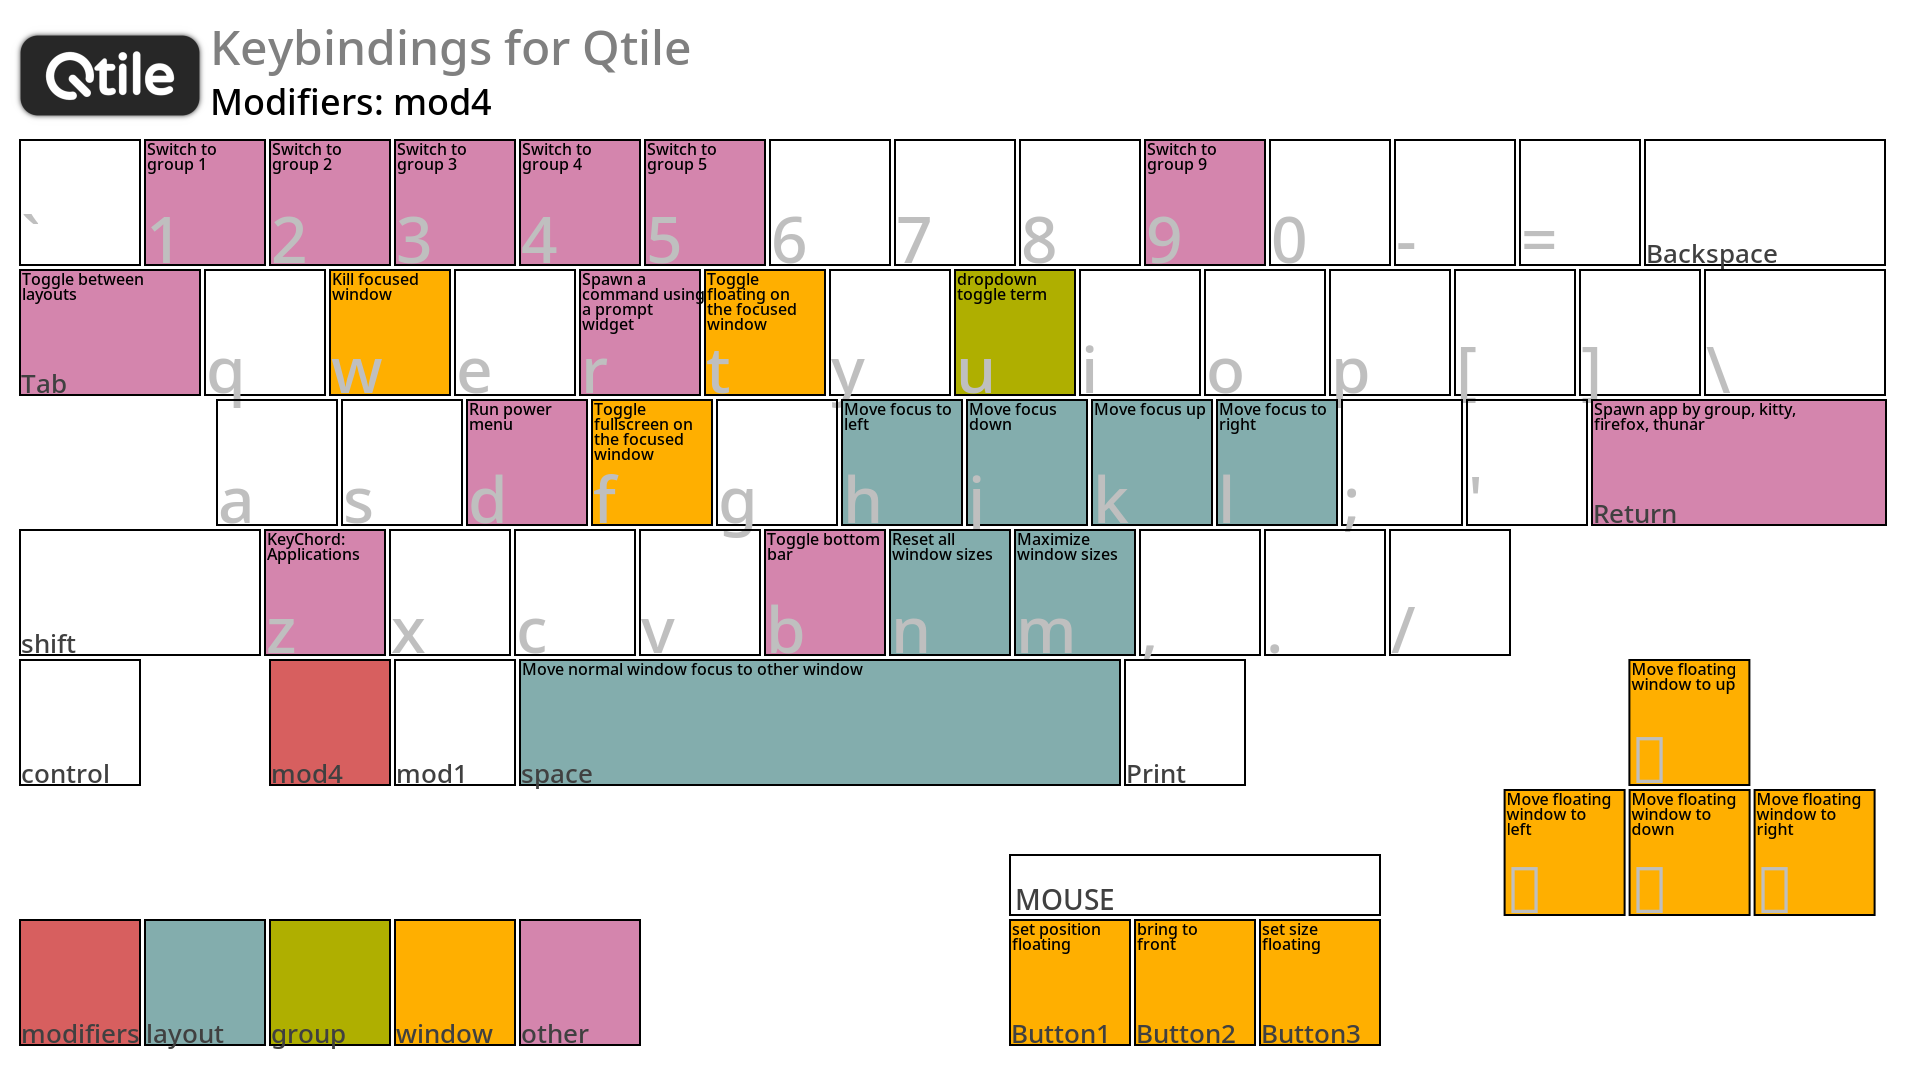
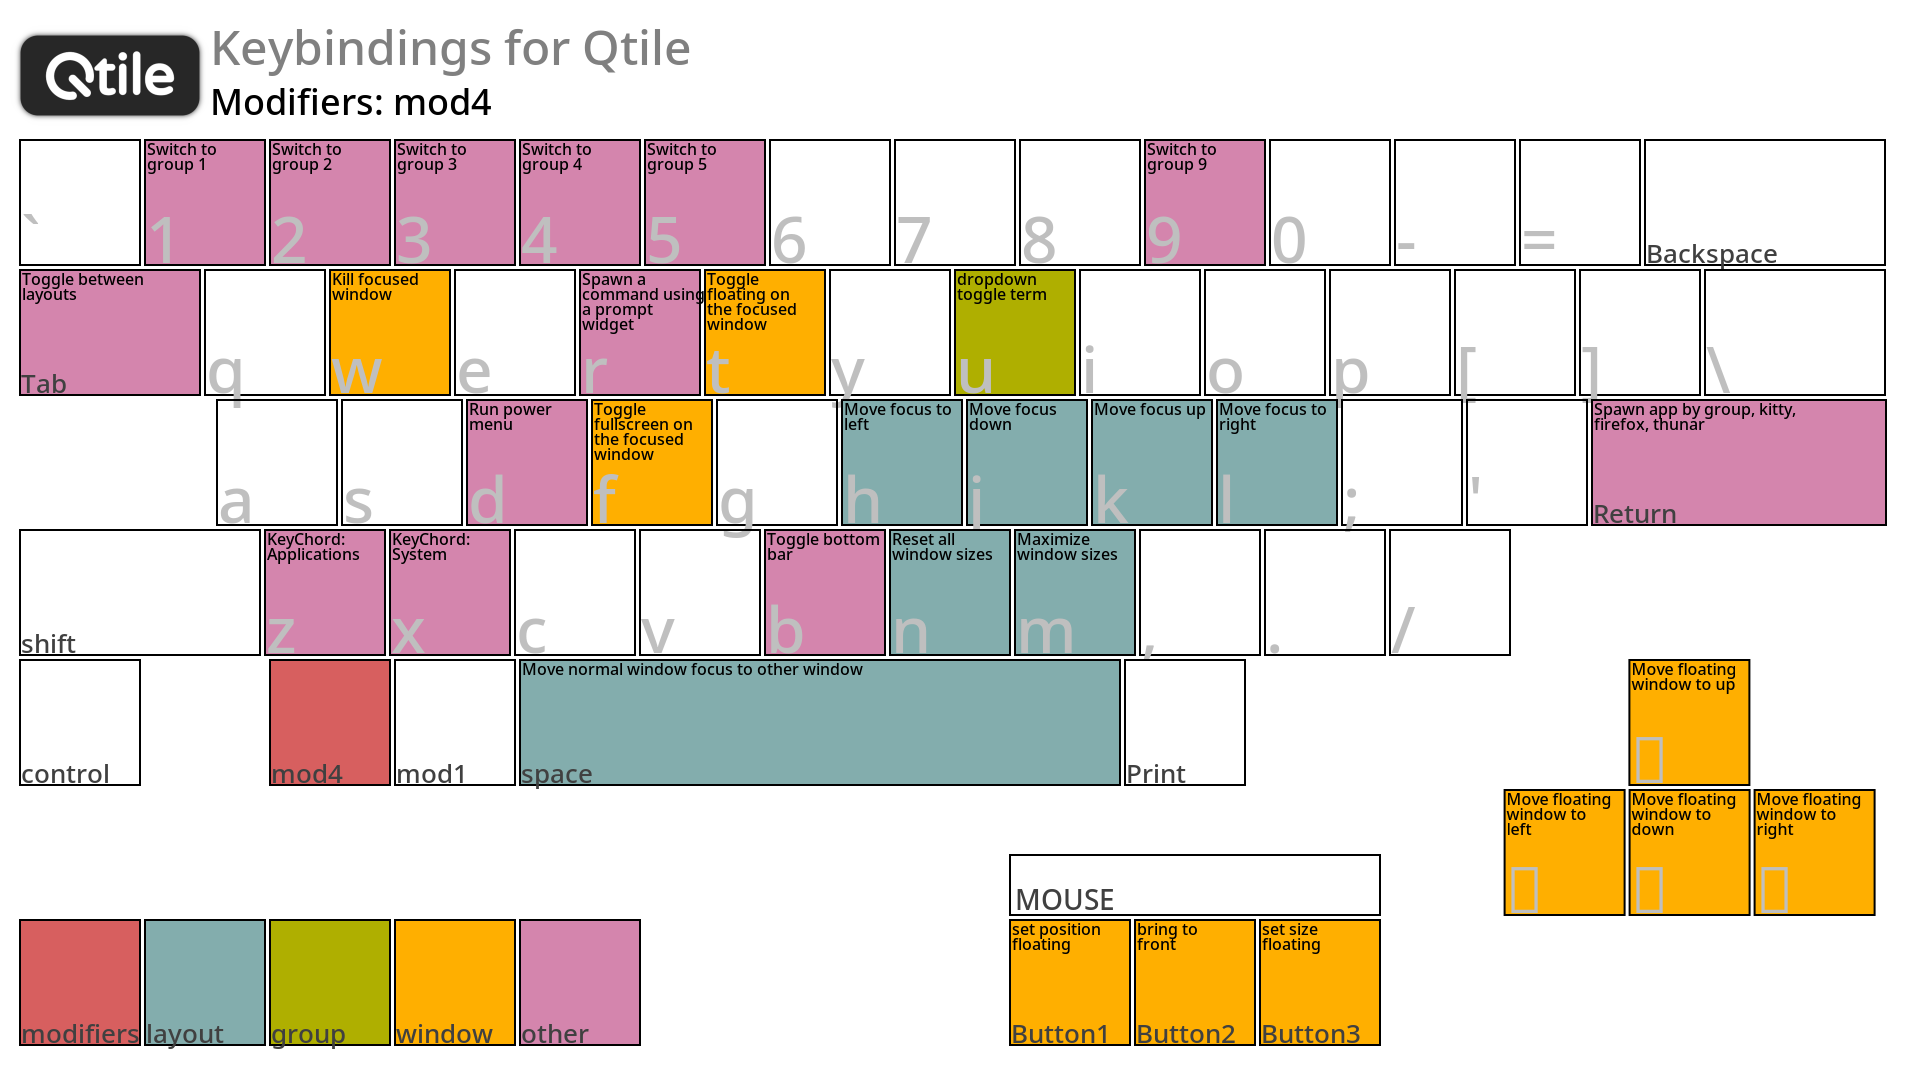
Added a help screen for KeyChord keybindings in Qtile using yad.

Changed region(s): [[0.1875, 0.4889, 0.2812, 0.6111]]

diff --git a/qtile/modules/keys.py b/qtile/modules/keys.py
@@ -8,7 +8,12 @@ https://docs.qtile.org/en/stable/manual/config/keys.html
 from libqtile.lazy import lazy
 from libqtile.config import Key, KeyChord
 #
-from modules.variables import MOD4, CONTROL, SHIFT, TAB, SPACE, RETURN, UP, DOWN, LEFT, RIGHT
+from modules.variables import (
+  MOD4, CONTROL, SHIFT, TAB, SPACE, RETURN, UP, DOWN, LEFT, RIGHT,
+  keychord_z_dic,
+  keychord_z_str,
+  keychord_x_str,
+)
 from modules.functions import focus_next_floating, spawn_by_group
 from modules.dmenu_power_menu import dmenu_power_menu
 
@@ -113,29 +118,37 @@ keys = [
 
 
   KeyChord([MOD4], 'z', [
-      # Web Browser
-      Key([],      'b', lazy.spawn('firefox'), desc = 'Run Firefox'),
+      # TODO: 2026-10-15
       # Key([SHIFT], 'b', lazy.spawn('firefox --private-window about:blank'), desc = 'Run Firefox, private'),
+      # Implementation is possible, but it is not being handled correctly by gen-keybinding-img.
+
+      # TODO: 2026-10-15
+      #   Isolate the `keychord` functionality—in other words, move it into a separate file.
+
+      # Web Browser
+      Key([], 'b', lazy.spawn(keychord_z_dic['b']['command']), desc = keychord_z_dic['b']['description']),
       # Password Manager
-      Key([],      'p', lazy.spawn('keepassxc'), desc = 'Run KeepassXC'),
+      Key([], 'p', lazy.spawn(keychord_z_dic['p']['command']), desc = keychord_z_dic['p']['description']),
       # Mailer
-      Key([],      'm', lazy.spawn('thunderbird'), desc = 'Run Thunderbird'),
+      Key([], 'm', lazy.spawn(keychord_z_dic['m']['command']), desc = keychord_z_dic['m']['description']),
       # Filer
-      Key([],      'f', lazy.spawn('thunar'), desc = 'Run Thunar'),
+      Key([], 'f', lazy.spawn(keychord_z_dic['f']['command']), desc = keychord_z_dic['f']['description']),
       # Video
-      Key([],      'v', lazy.spawn('vlc'), desc = 'Run VLC'),
+      Key([], 'v', lazy.spawn(keychord_z_dic['v']['command']), desc = keychord_z_dic['v']['description']),
       # Graphic, Raster format
-      Key([],      'g', lazy.spawn('gimp'), desc = 'Run Gimp'),
+      Key([], 'g', lazy.spawn(keychord_z_dic['g']['command']), desc = keychord_z_dic['g']['description']),
       # Graphic, Vector format
-      Key([],      'i', lazy.spawn('inkscape'), desc = 'Run Inkscape'),
+      Key([], 'i', lazy.spawn(keychord_z_dic['i']['command']), desc = keychord_z_dic['i']['description']),
       # Office
-      Key([],      'o', lazy.spawn('libreoffice'), desc = 'Run LibreOffice'),
+      Key([], 'o', lazy.spawn(keychord_z_dic['o']['command']), desc = keychord_z_dic['o']['description']),
       # Terminal
-      Key([],      't', lazy.spawn('kitty'), desc = 'Run Kitty'),
+      Key([], 't', lazy.spawn(keychord_z_dic['t']['command']), desc = keychord_z_dic['t']['description']),
       #
-      Key([],      'n', lazy.spawn('notable'), desc = 'Run Notable'),
-      Key([],      's', lazy.spawn('flatpak run com.valvesoftware.Steam'), desc = 'Run Steam'),
-      Key([],      'z', lazy.spawn('mousepad'), desc = 'Run Mousepad'),
+      Key([], 'n', lazy.spawn(keychord_z_dic['n']['command']), desc = keychord_z_dic['n']['description']),
+      Key([], 's', lazy.spawn(keychord_z_dic['s']['command']), desc = keychord_z_dic['s']['description']),
+      Key([], 'z', lazy.spawn(keychord_z_dic['z']['command']), desc = keychord_z_dic['z']['description']),
+      #
+      Key([], 'h', lazy.spawn(['yad', '--text', keychord_z_str, '--button="OK"', '--fontname="Monospace 20"', ]), desc = 'Help!'),
     ],
     mode = False,
     name = 'Applications',
@@ -147,10 +160,15 @@ keys = [
   #   It works as a Qtile feature.
   #   However, it seems that the `Mod4 + Z` and `Mod4 + X` keybindings aren't being captured by `gen-keybinding-img`.
   #   The `KeyChord` bindings shown below are mapped correctly.
-  KeyChord([MOD4], 'X', [
-      Key([],      'q', lazy.shutdown(),      desc = 'Logout session'),
-      Key([],      'r', lazy.reload_config(), desc = 'Reload the config'),
-      Key([],      'x', lazy.spawn('xfce4-settings-manager'), desc = 'Run Xfce4 Settings'),
+  KeyChord([MOD4], 'x', [
+      Key([], 'q', lazy.shutdown(),      desc = 'Logout session'),
+      Key([], 'r', lazy.reload_config(), desc = 'Reload the config'),
+      #
+      Key([], 'f', lazy.spawn('font-manager'), desc = 'Run Font manager'),
+      Key([], 'g', lazy.spawn('gparted'), desc = 'Run Gparted'),
+      Key([], 'x', lazy.spawn('xfce4-settings-manager'), desc = 'Run Xfce4 Settings'),
+      #
+      Key([], 'h', lazy.spawn(['yad', '--text', keychord_x_str, '--button="OK"', '--fontname="Monospace 20"', ]), desc = 'Help!'),
     ],
     mode = False,
     name = 'System',

diff --git a/qtile/modules/variables.py b/qtile/modules/variables.py
@@ -93,4 +93,83 @@ workspace_main = ['1', '2', '3', '4', '5', '9',]
 workspace_sub = ['6', '7', '8',] # This does not use
 
 
+#
+#
+#
+
+keychord_z_dic = {
+  'b': {
+    'command': 'firefox',
+    'description': 'Run web browser',
+  },
+  'm': {
+    'command': 'thunderbird',
+    'description': 'Run mailer',
+  },
+  'p': {
+    'command': 'keepassxc',
+    'description': 'Run password manager',
+  },
+  'f': {
+    'command': 'thunar',
+    'description': 'Run file explorer',
+  },
+  'v': {
+    'command': 'vlc',
+    'description': 'Run video player',
+  },
+
+  'g': {
+    'command': 'gimp',
+    'description': 'Run raster graphic manipulation',
+  },
+  'i': {
+    'command': 'inkscape',
+    'description': 'Run vector graphic manipulation',
+  },
+
+  'o': {
+    'command': 'libreoffice',
+    'description': 'Run office suite',
+  },
+  'n': {
+    'command': 'notable',
+    'description': 'Run notebook',
+  },
+  'z': {
+    'command': 'mousepad',
+    'description': 'Run memo',
+  },
+
+  't': {
+    'command': 'kitty',
+    'description': 'Run terminal',
+  },
+  's': {
+    'command': 'flatpak run com.valvesoftware.Steam',
+    'description': 'Run gaming platform',
+  },
+}
+
+keychord_z_sort = dict(sorted(keychord_z_dic.items()))
+
+keychord_z_str  = '<span font="Monospace" font-size="xx-large">'
+keychord_z_str += '<span font-weight="bold">Mod4 + z is...' + '</span>' + "\n\n"
+keychord_z_str += "\n".join(f"{k}: {v['description']}, {v['command']}" for k, v in keychord_z_sort.items())
+keychord_z_str += '</span>'
+
+#
+# TODO: 2026-10-15
+#   There ought to be a smarter way to go about this, but for now, I’ll set that aside.
+#
+keychord_x_str  = '<span font="Monospace" font-size="xx-large">'
+keychord_x_str += '<span font-weight="bold">Mod4 + x is...' + '</span>' + "\n"
+keychord_x_str += 'q: Logout' + "\n"
+keychord_x_str += 'r: Reload the config' + "\n"
+keychord_x_str += 'f: Run Font manager' + "\n"
+keychord_x_str += 'g: Run Gparted' + "\n"
+keychord_x_str += 'x: Run Xfce4 Settings' + "\n"
+keychord_x_str += '</span>' + "\n"
+
+
 ##

diff --git a/qtile/README.md b/qtile/README.md
@@ -11,7 +11,8 @@
 1. **Not** Using [qtile-extras](https://qtile-extras.readthedocs.io/en/stable/).  
     To be precise, I stopped using this.
 1. Using Vanilla [dmenu](https://tools.suckless.org/dmenu/), [dex](https://man.archlinux.org/man/extra/dex/dex.1.en).
-1. using `scrot` to take screenshots, but I call a Fish shell function that I created, [my_scrot_now](https://github.com/dollplayer2501/dotfiles_ver3_terminal/blob/main/fish/functions/my_scrot_now.fish) and [my_scrot_wait](https://github.com/dollplayer2501/dotfiles_ver3_terminal/blob/main/fish/functions/my_scrot_wait.fish).
+1. Using `scrot` to take screenshots, but I call a Fish shell function that I created, [my_scrot_now](https://github.com/dollplayer2501/dotfiles_ver3_terminal/blob/main/fish/functions/my_scrot_now.fish) and [my_scrot_wait](https://github.com/dollplayer2501/dotfiles_ver3_terminal/blob/main/fish/functions/my_scrot_wait.fish).
+1. Using `yad` for displaying KeyChord key bindings.
 1. It's imperfect, but I'm using a modified version of [gen-keybinding-img](https://docs.qtile.org/en/latest/manual/commands/keybindings.html).
 1. Notification-related functionality depends on the Xfce4 environment.
 1. Using [Raleway font](https://fonts.google.com/specimen/Raleway).
